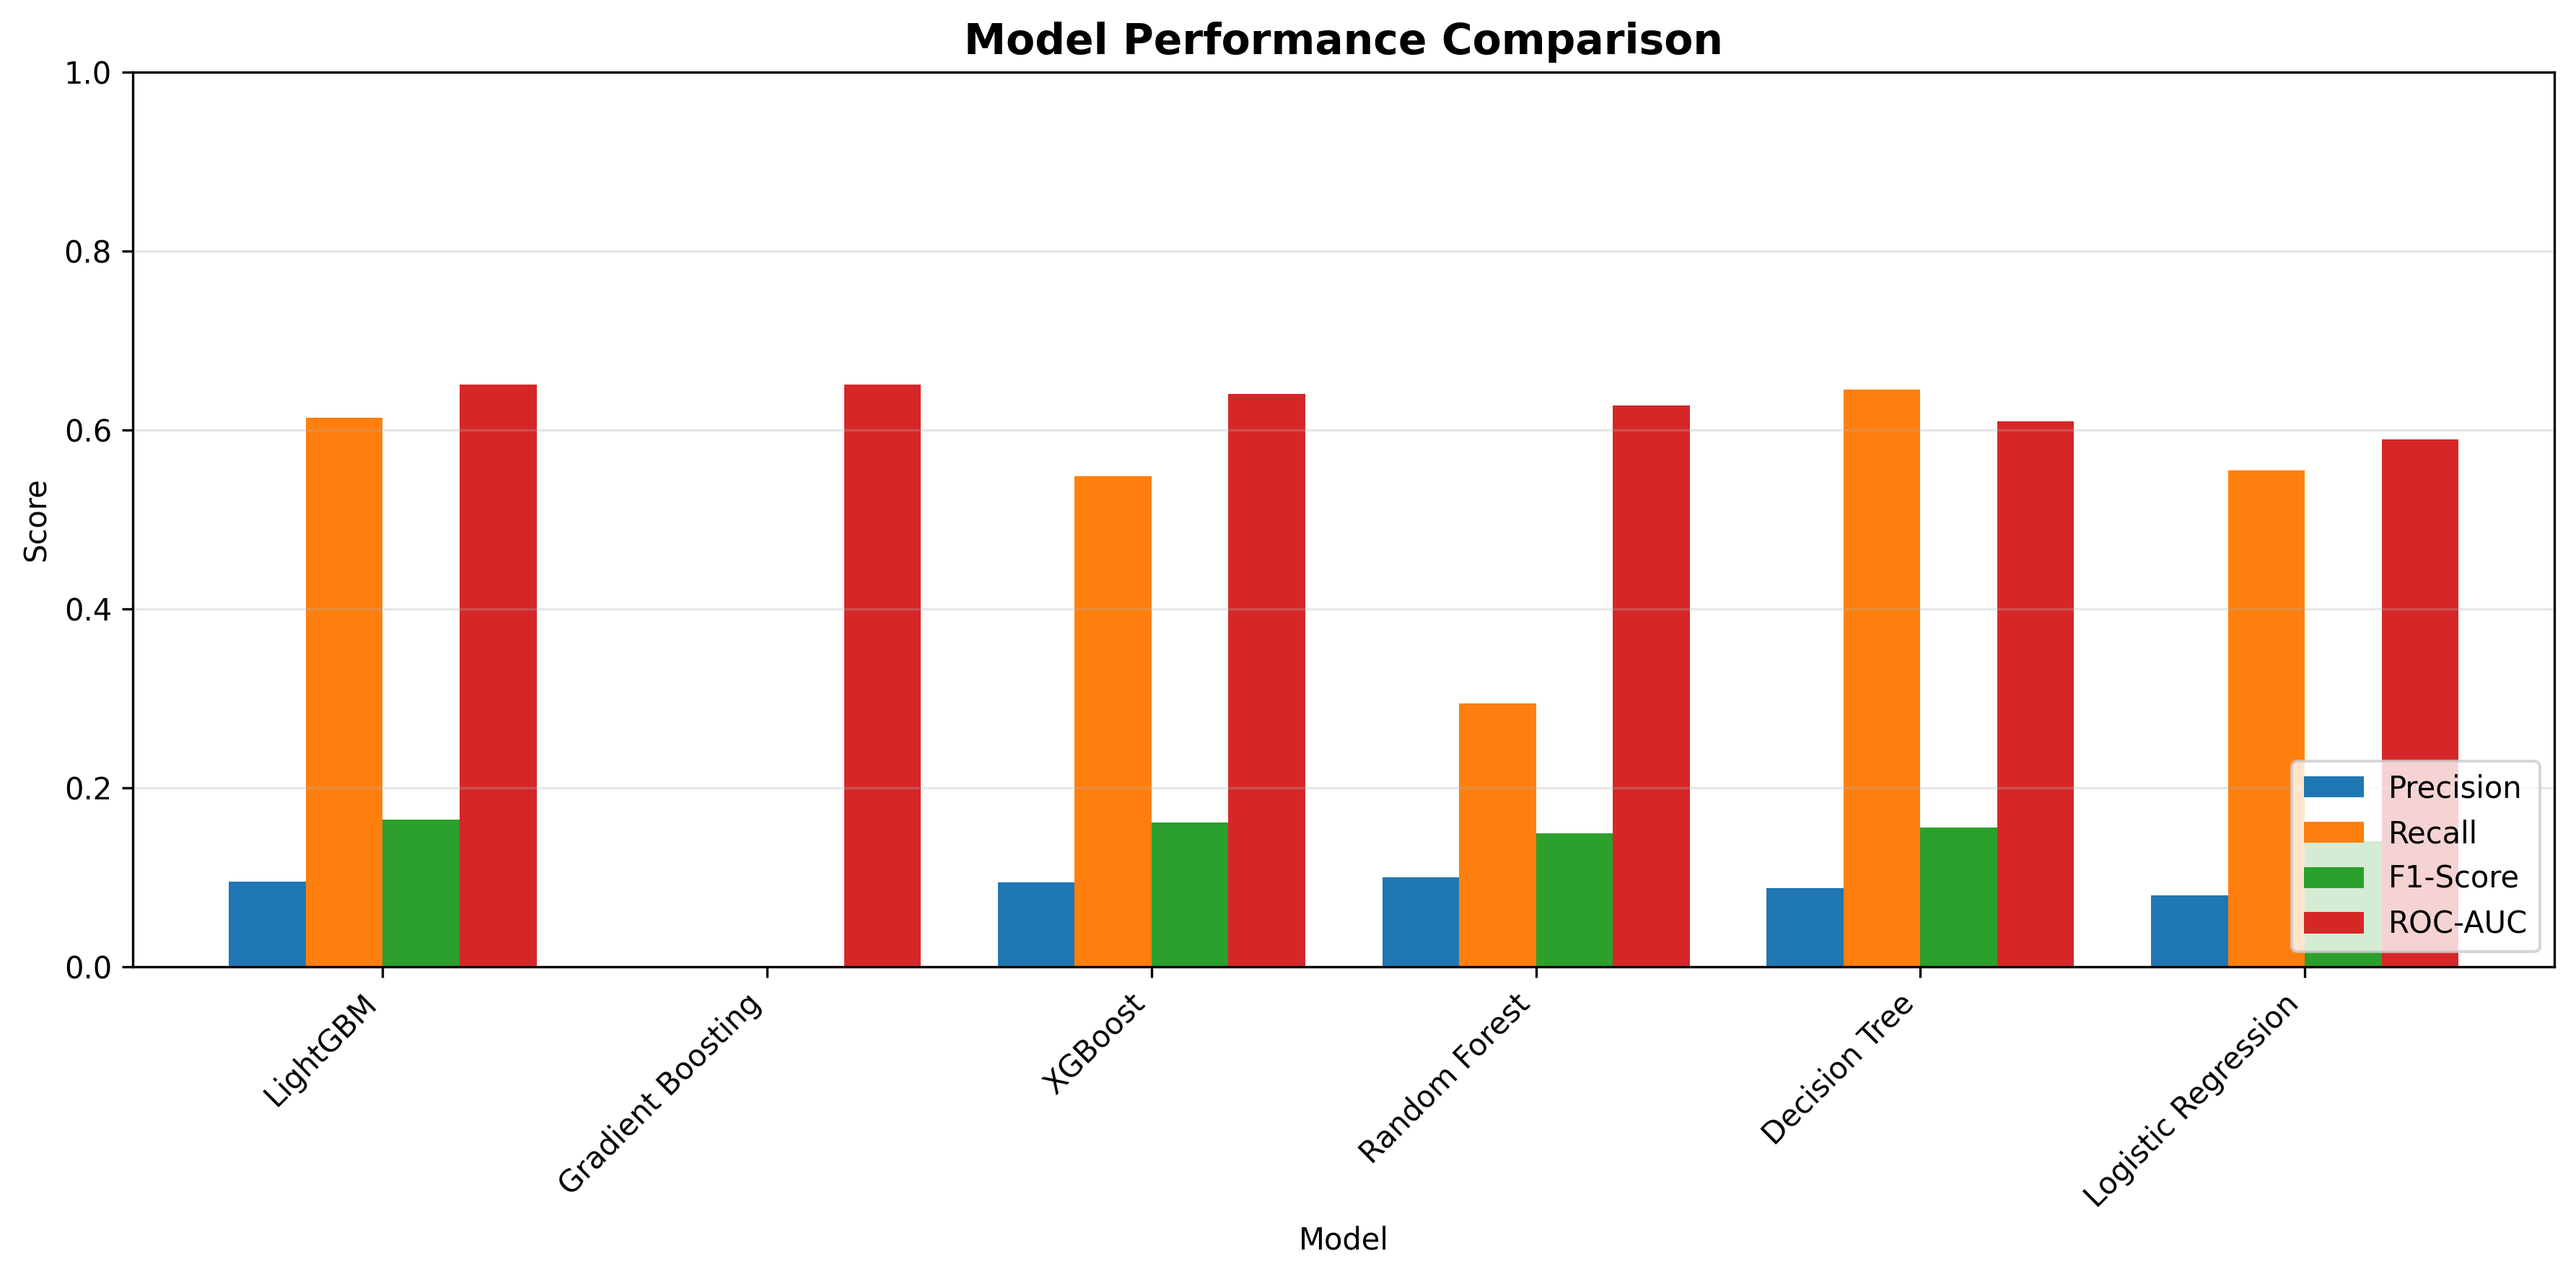
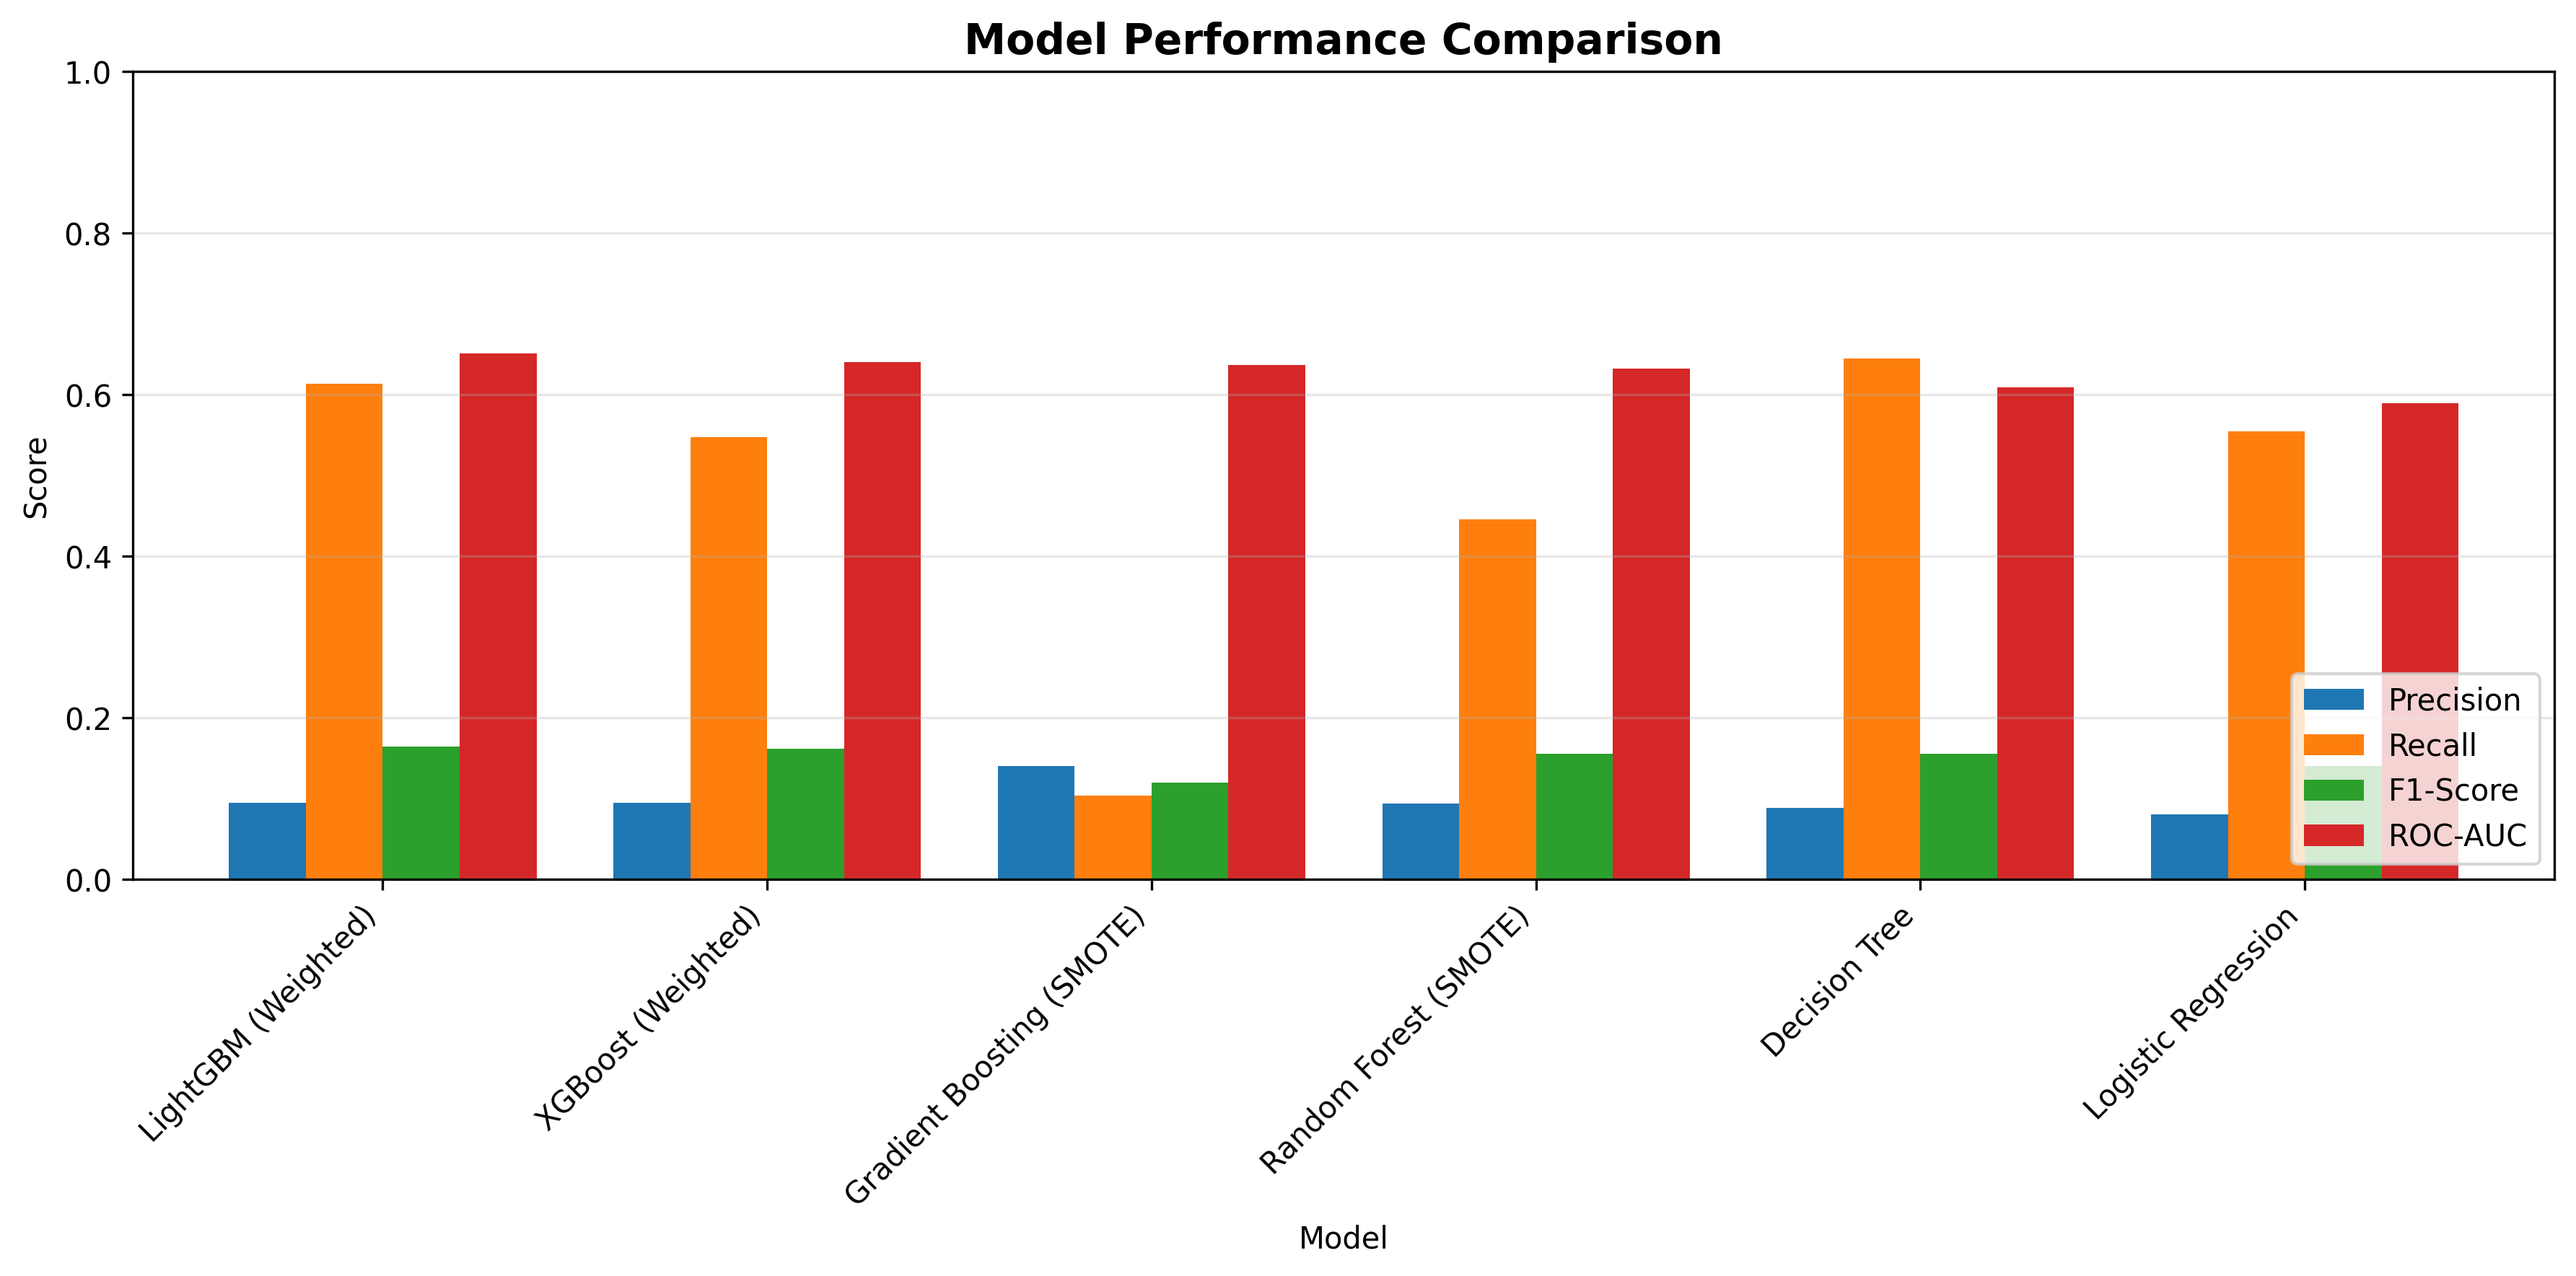
Improved model using SMOTE and class imbalance handling

diff --git a/src/advanced_models.py b/src/advanced_models.py
@@ -1,34 +1,42 @@
 """
 Advanced Models for Car Insurance Claim Prediction
 ===================================================
-Random Forest, XGBoost, and LightGBM
+Random Forest, Gradient Boosting, XGBoost, and LightGBM
 """
 
 import numpy as np
 from sklearn.ensemble import RandomForestClassifier, GradientBoostingClassifier
 from xgboost import XGBClassifier
 from lightgbm import LGBMClassifier
-from sklearn.model_selection import GridSearchCV, cross_val_score
+from sklearn.model_selection import GridSearchCV
 from sklearn.metrics import (
     accuracy_score, precision_score, recall_score,
     f1_score, roc_auc_score, confusion_matrix, classification_report
 )
 
+# ✅ Correct import (outside class)
+from imblearn.over_sampling import SMOTE
+
 
 class AdvancedModels:
     """Train and evaluate advanced ensemble models"""
-    
+
     def __init__(self, random_state=42):
         self.random_state = random_state
         self.models = {}
         self.results = {}
-        
+
+    # ============================================================
+    # RANDOM FOREST (SMOTE)
+    # ============================================================
     def train_random_forest(self, X_train, y_train, X_test, y_test):
-        """Train Random Forest model"""
         print("\n" + "="*60)
         print("TRAINING: RANDOM FOREST")
         print("="*60)
-        
+
+        smote = SMOTE(random_state=self.random_state)
+        X_res, y_res = smote.fit_resample(X_train, y_train)
+
         model = RandomForestClassifier(
             n_estimators=100,
             max_depth=15,
@@ -36,60 +44,62 @@ class AdvancedModels:
             min_samples_leaf=5,
             class_weight='balanced',
             random_state=self.random_state,
-            n_jobs=-1,
-            verbose=0
+            n_jobs=-1
         )
-        
-        print("Training model...")
-        model.fit(X_train, y_train)
-        
+
+        model.fit(X_res, y_res)
+
         results = self._evaluate_model(
             model, X_train, y_train, X_test, y_test,
-            "Random Forest"
+            "Random Forest (SMOTE)"
         )
-        
+
         self.models['random_forest'] = model
         self.results['random_forest'] = results
-        
+
         return results
-    
+
+    # ============================================================
+    # GRADIENT BOOSTING (SMOTE)
+    # ============================================================
     def train_gradient_boosting(self, X_train, y_train, X_test, y_test):
-        """Train Gradient Boosting model"""
         print("\n" + "="*60)
         print("TRAINING: GRADIENT BOOSTING")
         print("="*60)
-        
+
+        smote = SMOTE(random_state=self.random_state)
+        X_res, y_res = smote.fit_resample(X_train, y_train)
+
         model = GradientBoostingClassifier(
             n_estimators=100,
             max_depth=5,
             learning_rate=0.1,
             subsample=0.8,
-            random_state=self.random_state,
-            verbose=0
+            random_state=self.random_state
         )
-        
-        print("Training model...")
-        model.fit(X_train, y_train)
-        
+
+        model.fit(X_res, y_res)
+
         results = self._evaluate_model(
             model, X_train, y_train, X_test, y_test,
-            "Gradient Boosting"
+            "Gradient Boosting (SMOTE)"
         )
-        
+
         self.models['gradient_boosting'] = model
         self.results['gradient_boosting'] = results
-        
+
         return results
-    
+
+    # ============================================================
+    # XGBOOST (class weight + optional SMOTE)
+    # ============================================================
     def train_xgboost(self, X_train, y_train, X_test, y_test):
-        """Train XGBoost model"""
         print("\n" + "="*60)
         print("TRAINING: XGBOOST")
         print("="*60)
-        
-        # Calculate scale_pos_weight for imbalanced data
+
         scale_pos_weight = len(y_train[y_train == 0]) / len(y_train[y_train == 1])
-        
+
         model = XGBClassifier(
             n_estimators=100,
             max_depth=6,
@@ -101,26 +111,27 @@ class AdvancedModels:
             eval_metric='logloss',
             verbosity=0
         )
-        
-        print("Training model...")
+
         model.fit(X_train, y_train)
-        
+
         results = self._evaluate_model(
             model, X_train, y_train, X_test, y_test,
-            "XGBoost"
+            "XGBoost (Weighted)"
         )
-        
+
         self.models['xgboost'] = model
         self.results['xgboost'] = results
-        
+
         return results
-    
+
+    # ============================================================
+    # LIGHTGBM (class weight)
+    # ============================================================
     def train_lightgbm(self, X_train, y_train, X_test, y_test):
-        """Train LightGBM model"""
         print("\n" + "="*60)
         print("TRAINING: LIGHTGBM")
         print("="*60)
-        
+
         model = LGBMClassifier(
             n_estimators=100,
             max_depth=6,
@@ -132,103 +143,28 @@ class AdvancedModels:
             random_state=self.random_state,
             verbose=-1
         )
-        
-        print("Training model...")
+
         model.fit(X_train, y_train)
-        
+
         results = self._evaluate_model(
             model, X_train, y_train, X_test, y_test,
-            "LightGBM"
+            "LightGBM (Weighted)"
         )
-        
+
         self.models['lightgbm'] = model
         self.results['lightgbm'] = results
-        
+
         return results
-    
-    def tune_hyperparameters(self, model_name, X_train, y_train):
-        """
-        Tune hyperparameters using GridSearchCV
-        
-        Args:
-            model_name: 'random_forest', 'xgboost', or 'lightgbm'
-            X_train, y_train: Training data
-            
-        Returns:
-            Best model after tuning
-        """
-        print("\n" + "="*60)
-        print(f"HYPERPARAMETER TUNING: {model_name.upper()}")
-        print("="*60)
-        
-        if model_name == 'random_forest':
-            model = RandomForestClassifier(
-                random_state=self.random_state,
-                class_weight='balanced',
-                n_jobs=-1
-            )
-            param_grid = {
-                'n_estimators': [100, 200],
-                'max_depth': [10, 15, 20],
-                'min_samples_split': [10, 20],
-                'min_samples_leaf': [5, 10]
-            }
-        
-        elif model_name == 'xgboost':
-            model = XGBClassifier(
-                random_state=self.random_state,
-                eval_metric='logloss'
-            )
-            param_grid = {
-                'n_estimators': [100, 200],
-                'max_depth': [5, 6, 7],
-                'learning_rate': [0.05, 0.1, 0.2],
-                'subsample': [0.8, 1.0]
-            }
-        
-        elif model_name == 'lightgbm':
-            model = LGBMClassifier(
-                random_state=self.random_state,
-                class_weight='balanced',
-                verbose=-1
-            )
-            param_grid = {
-                'n_estimators': [100, 200],
-                'max_depth': [5, 6, 7],
-                'learning_rate': [0.05, 0.1, 0.2],
-                'num_leaves': [31, 50]
-            }
-        else:
-            print(f"Model {model_name} not supported for tuning")
-            return None
-        
-        # GridSearch with cross-validation
-        print("Starting grid search (this may take a while)...")
-        grid_search = GridSearchCV(
-            model,
-            param_grid,
-            cv=3,
-            scoring='roc_auc',
-            n_jobs=-1,
-            verbose=1
-        )
-        
-        grid_search.fit(X_train, y_train)
-        
-        print(f"\n✓ Grid search complete!")
-        print(f"Best parameters: {grid_search.best_params_}")
-        print(f"Best CV score: {grid_search.best_score_:.4f}")
-        
-        return grid_search.best_estimator_
-    
+
+    # ============================================================
+    # EVALUATION
+    # ============================================================
     def _evaluate_model(self, model, X_train, y_train, X_test, y_test, model_name):
-        """Evaluate model performance"""
-        # Predictions
+
         y_pred_train = model.predict(X_train)
         y_pred_test = model.predict(X_test)
         y_pred_proba = model.predict_proba(X_test)[:, 1]
-        
-        # Calculate metrics
+
         train_acc = accuracy_score(y_train, y_pred_train)
         test_acc = accuracy_score(y_test, y_pred_test)
         precision = precision_score(y_test, y_pred_test)
@@ -236,40 +172,20 @@ class AdvancedModels:
         f1 = f1_score(y_test, y_pred_test)
         roc_auc = roc_auc_score(y_test, y_pred_proba)
         cm = confusion_matrix(y_test, y_pred_test)
-        
-        # Print results
+
         print(f"\n{'─'*60}")
         print(f"RESULTS: {model_name}")
         print(f"{'─'*60}")
-        print(f"Train Accuracy:  {train_acc:.4f}")
-        print(f"Test Accuracy:   {test_acc:.4f}")
-        print(f"Precision:       {precision:.4f}")
-        print(f"Recall:          {recall:.4f}")
-        print(f"F1-Score:        {f1:.4f}")
-        print(f"ROC-AUC:         {roc_auc:.4f}")
-        
-        print(f"\nConfusion Matrix:")
-        print(f"                 Predicted")
-        print(f"                 No    Yes")
-        print(f"Actual No     {cm[0][0]:5d} {cm[0][1]:5d}")
-        print(f"       Yes    {cm[1][0]:5d} {cm[1][1]:5d}")
-        
-        # Check overfitting
-        overfit_diff = train_acc - test_acc
-        if overfit_diff > 0.05:
-            print(f"\n⚠  Warning: Possible overfitting detected")
-            print(f"   Train-Test gap: {overfit_diff:.4f}")
-        else:
-            print(f"\n✓ Good generalization (Train-Test gap: {overfit_diff:.4f})")
-        
-        # Feature importance (if available)
-        if hasattr(model, 'feature_importances_'):
-            importances = model.feature_importances_
-            top_5_idx = np.argsort(importances)[-5:][::-1]
-            print(f"\nTop 5 Important Features:")
-            for idx in top_5_idx:
-                print(f"  Feature {idx}: {importances[idx]:.4f}")
-        
+        print(f"Train Accuracy: {train_acc:.4f}")
+        print(f"Test Accuracy:  {test_acc:.4f}")
+        print(f"Precision:      {precision:.4f}")
+        print(f"Recall:         {recall:.4f}")
+        print(f"F1-Score:       {f1:.4f}")
+        print(f"ROC-AUC:        {roc_auc:.4f}")
+
+        print("\nClassification Report:")
+        print(classification_report(y_test, y_pred_test))
+
         return {
             'model_name': model_name,
             'model': model,
@@ -282,46 +198,20 @@ class AdvancedModels:
             'confusion_matrix': cm,
             'y_pred_proba': y_pred_proba
         }
-    
+
+    # ============================================================
+    # BEST MODEL (based on F1, not ROC-AUC)
+    # ============================================================
     def get_best_model(self):
-        """Get the best performing model"""
+
         if not self.results:
             print("No models trained yet!")
             return None
-        
-        best_name = max(self.results, key=lambda k: self.results[k]['roc_auc'])
+
+        best_name = max(self.results, key=lambda k: self.results[k]['f1_score'])
         best_results = self.results[best_name]
-        
+
         print(f"\n🏆 Best Advanced Model: {best_results['model_name']}")
-        print(f"   ROC-AUC: {best_results['roc_auc']:.4f}")
-        
+        print(f"   F1-Score: {best_results['f1_score']:.4f}")
+
         return best_name, best_results
-
-
-if __name__ == "__main__":
-    """Test advanced models"""
-    import pandas as pd
-    
-    print("Testing Advanced Models...")
-    
-    # Load processed data
-    X_train = pd.read_csv('data/processed/X_train.csv')
-    X_test = pd.read_csv('data/processed/X_test.csv')
-    y_train = pd.read_csv('data/processed/y_train.csv').values.ravel()
-    y_test = pd.read_csv('data/processed/y_test.csv').values.ravel()
-    
-    print(f"Data loaded: Train={X_train.shape}, Test={X_test.shape}")
-    
-    # Create advanced models
-    advanced = AdvancedModels(random_state=42)
-    
-    # Train all models
-    rf_results = advanced.train_random_forest(X_train, y_train, X_test, y_test)
-    gb_results = advanced.train_gradient_boosting(X_train, y_train, X_test, y_test)
-    xgb_results = advanced.train_xgboost(X_train, y_train, X_test, y_test)
-    lgbm_results = advanced.train_lightgbm(X_train, y_train, X_test, y_test)
-    
-    # Get best model
-    best_name, best_results = advanced.get_best_model()
-    
-    print("\n✓ Advanced models test successful!")
